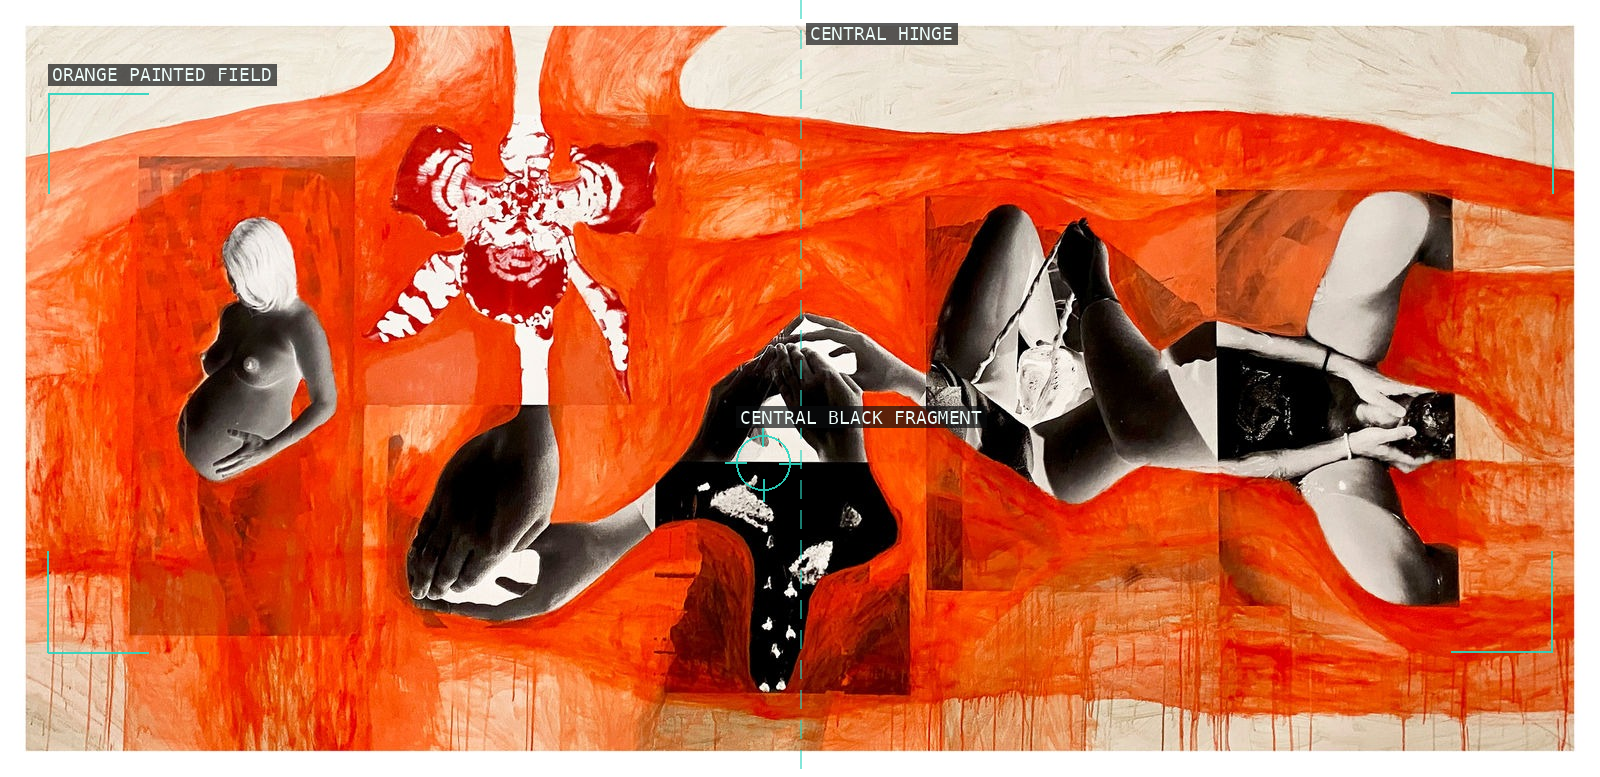
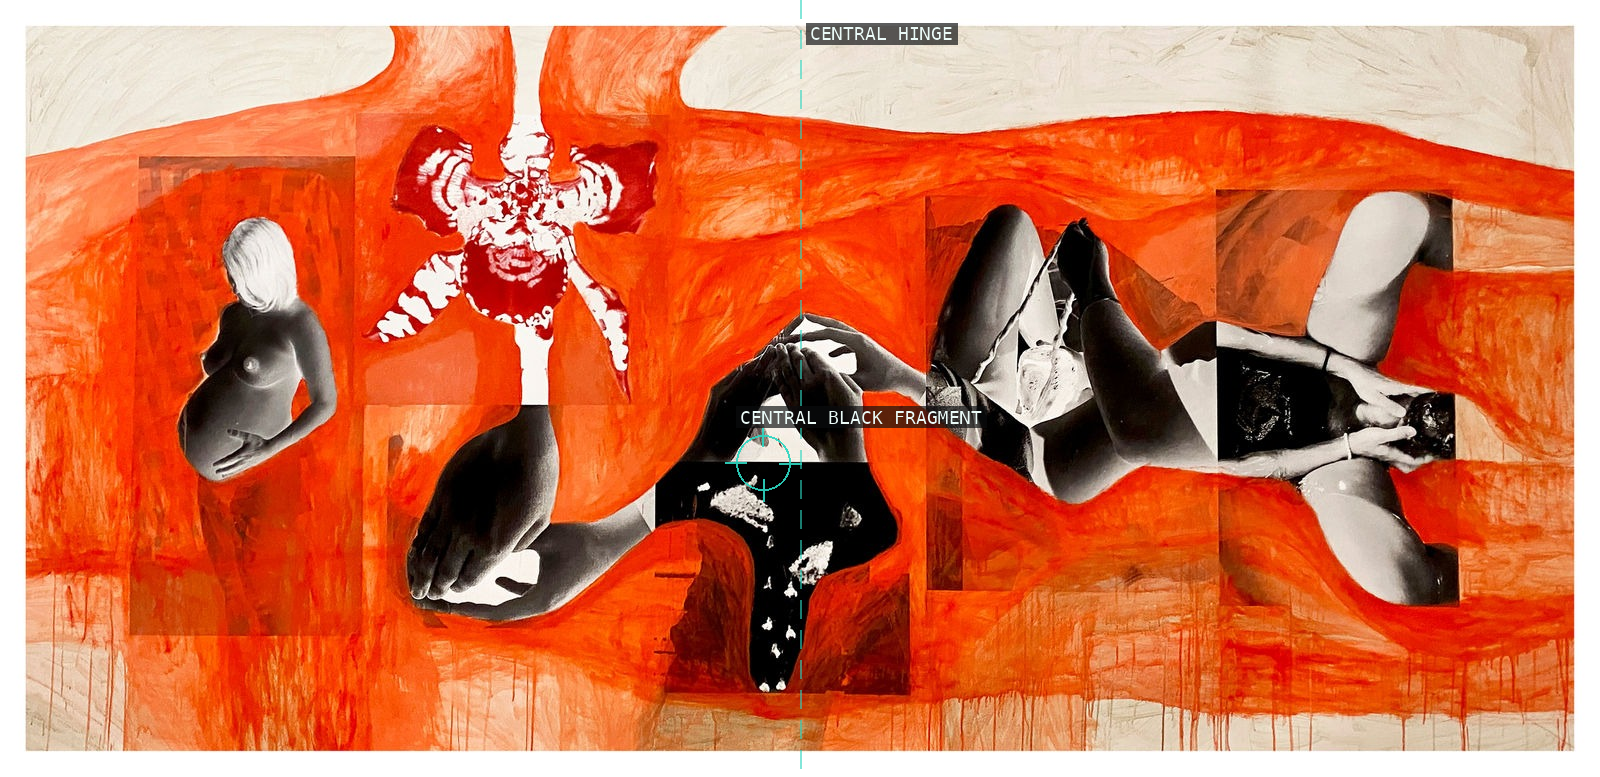
resolve critique: ozlem-altin

Changed region(s): [[0.0312, 0.0618, 0.1875, 0.1236]]

diff --git a/content/ozlem-altin/critique.md b/content/ozlem-altin/critique.md
@@ -1,4 +1,4 @@
-verdict: revise
+verdict: resolved
 
 ## Critique round — 2026-08-02
 
@@ -16,3 +16,21 @@ verdict: revise
 - **07-our-light-is-a-voice-ii** — `MIDDLE PIGMENT BREAK` corresponds to the measured tonal split, but reads only weakly as a distinct pigment boundary. Consider a more literal label if revising the overlay.
 
 All ten proofs were visually inspected against their corresponding specs and analysis. Deterministic overlay scoring reports 100/100 with no deductions for every image; the required findings above are semantic/visual failures outside that geometric scorer's scope. Source links, credits, documented per-image fair-use rationale, historical claims, and the chapter's settings disclaimer were also reviewed; no blocking issue was found there.
+
+## Builder resolution — 2026-08-02
+
+1. **05-untitled-alignment-blessing:** Removed the unsupported
+   `frame_in_frame` for the orange painted field. The refreshed proof now
+   makes only the supportable central hinge and central black-fragment claims.
+2. **06-our-light-is-a-voice-i:** Removed the unsupported
+   `frame_in_frame` for the violet panel. The refreshed proof retains only the
+   measured middle pigment break and lower dark-figure anchor.
+3. **10-psyche-grow-deep-installation:** Removed the false
+   `symmetry_axis`. The refreshed proof retains the measured courtyard
+   convergence and the visible right roof-corner anchor.
+
+Re-verified critique history: the sole prior round, **2026-08-02**, including
+every required correction. Re-analyzed, rendered, visually checked, and scored
+all three affected overlays; each scores 100/100 with no deductions. The
+chapter remains byte-identical at `content/ozlem-altin/chapter.mdx` and
+`src/chapters/ozlem-altin.mdx`.
